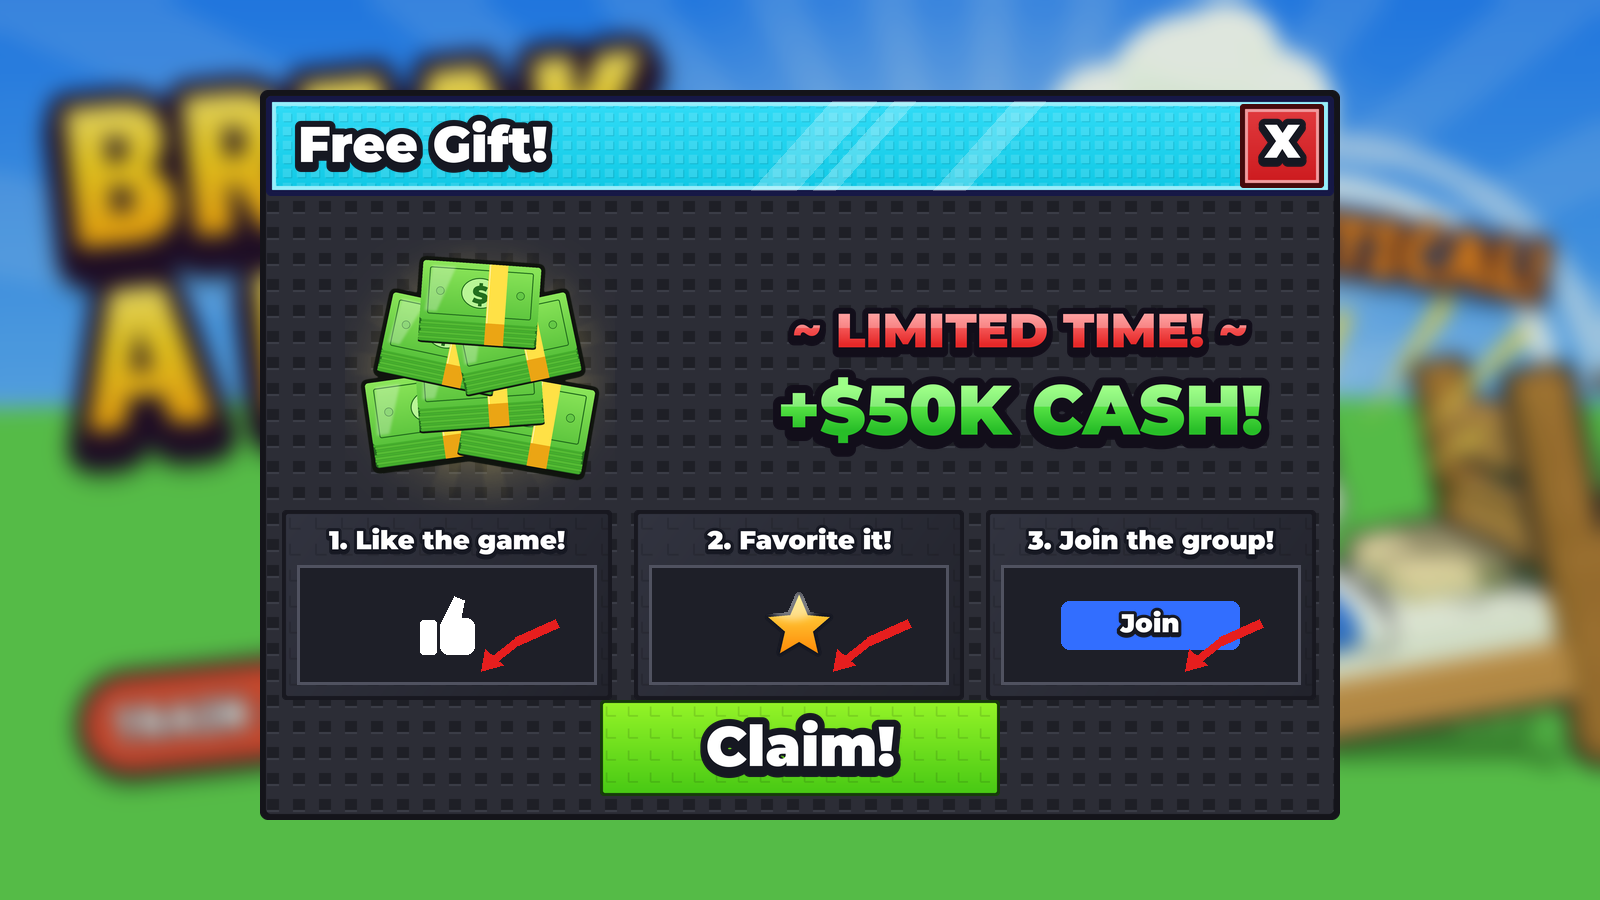
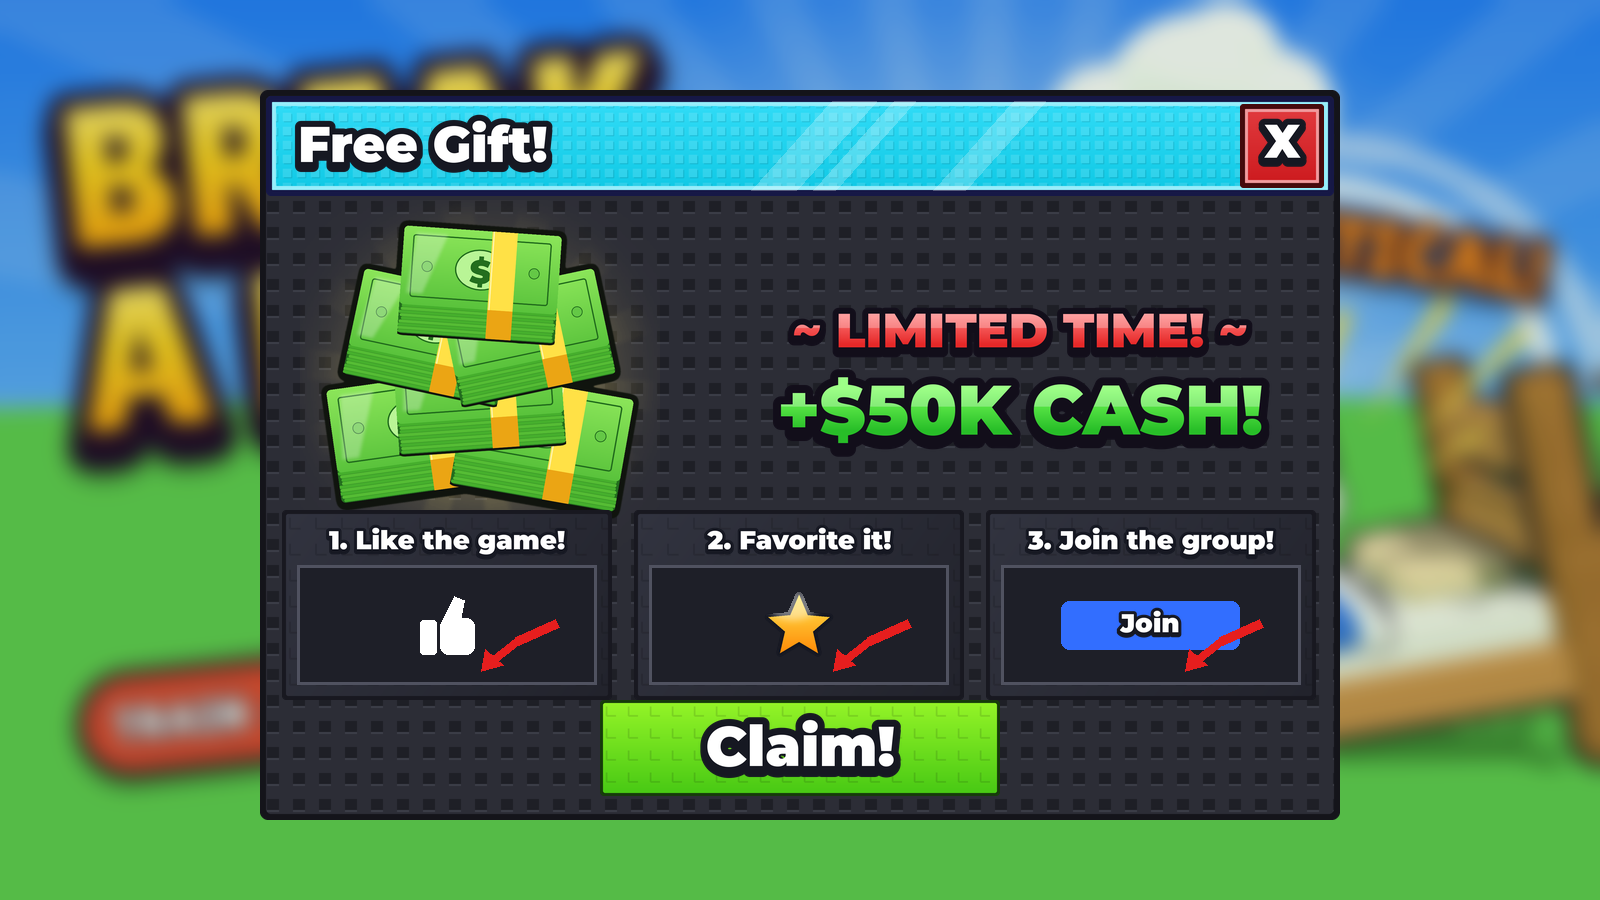
Break A Bed: Free Gift pile back to full size, step cards on top
Claude-Session: https://claude.ai/code/session_016uvrS3Ui1ijFbyufuEdzSK

Changed region(s): [[0.1875, 0.2489, 0.4062, 0.5911]]

diff --git a/Break A Bed/UI Kit/source/freegift.py b/Break A Bed/UI Kit/source/freegift.py
@@ -14,10 +14,10 @@ def popup(bgpath, out):
     img.alpha_composite(shop3.window(ww, wh), (x0, y0))
     img.alpha_composite(sim.header(ww - 12, 100, 'cyan', 'Free Gift!'), (x0 + 6, y0 + 6))
     img.alpha_composite(kit.x_mark(sim.sbox(84, 84, 'red', radius=0.04, cell=40, stud=(0, 0))), (x0 + ww - 100, y0 + 14))
-    hero = Image.new('RGBA', (270, 270), (0, 0, 0, 0))
-    hero.alpha_composite(A.burst(270, (255, 230, 120), 14, 60))
-    hero.alpha_composite(art.cash_pile(240, 5), (15, 8))
-    img.alpha_composite(hero, (x0 + 85, y0 + 150))
+    hero = Image.new('RGBA', (360, 360), (0, 0, 0, 0))
+    hero.alpha_composite(A.burst(360, (255, 230, 120), 14, 70))
+    hero.alpha_composite(art.cash_pile(320, 5), (20, 10))
+    img.alpha_composite(hero, (x0 + 40, y0 + 110))  # step cards are drawn after this, so they sit on top of the pile
     A.stroke_text(img, (x0 + 760, y0 + 240), '~ LIMITED TIME! ~', 48, (255, 120, 120), (230, 40, 40), anchor='mm')
     A.stroke_text(img, (x0 + 760, y0 + 320), '+$50K CASH!', 70, (120, 255, 90), (40, 190, 40), anchor='mm')
     steps = [('1. Like the game!', 'thumb'), ('2. Favorite it!', 'star'), ('3. Join the group!', 'group')]
